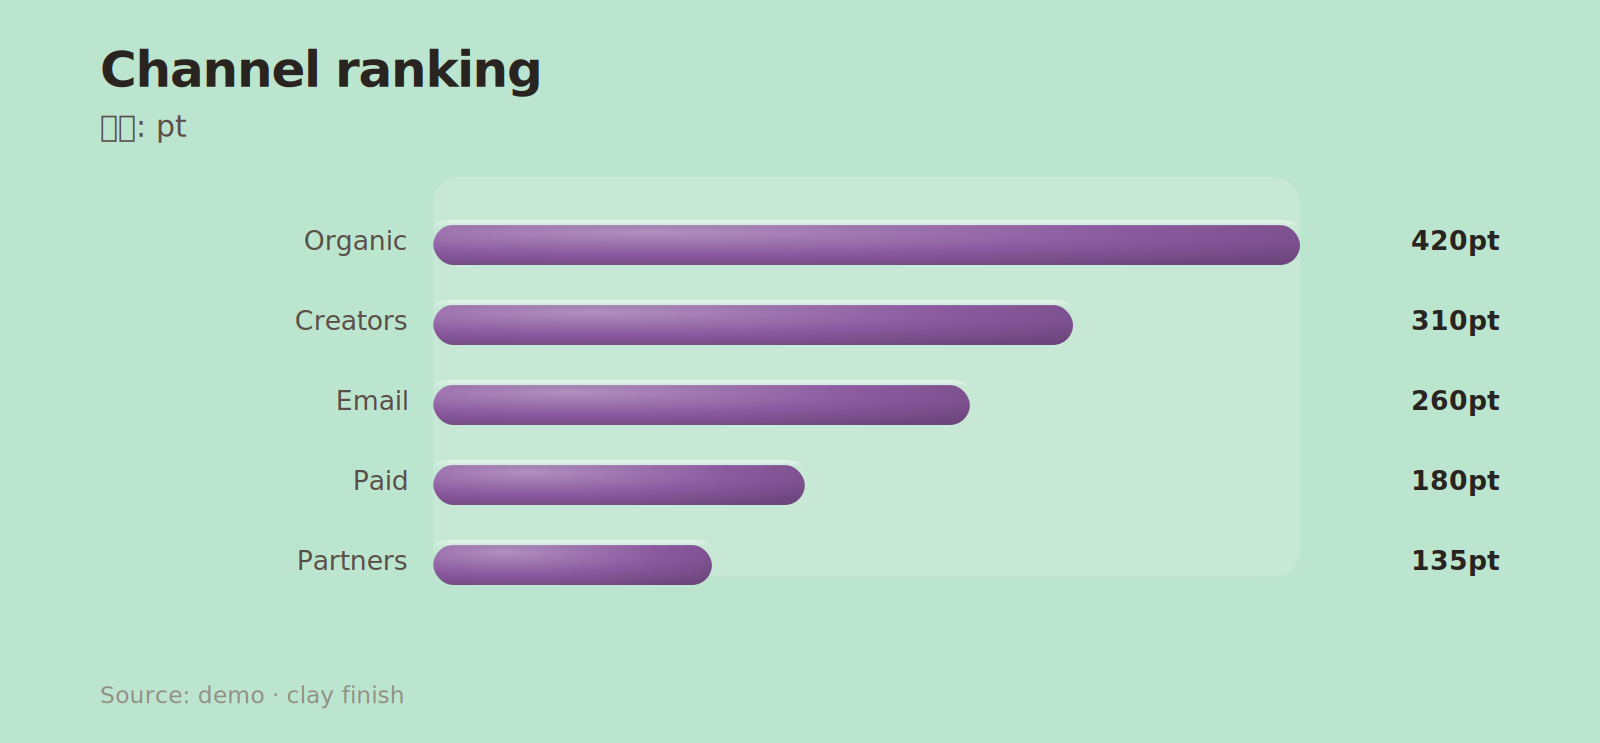
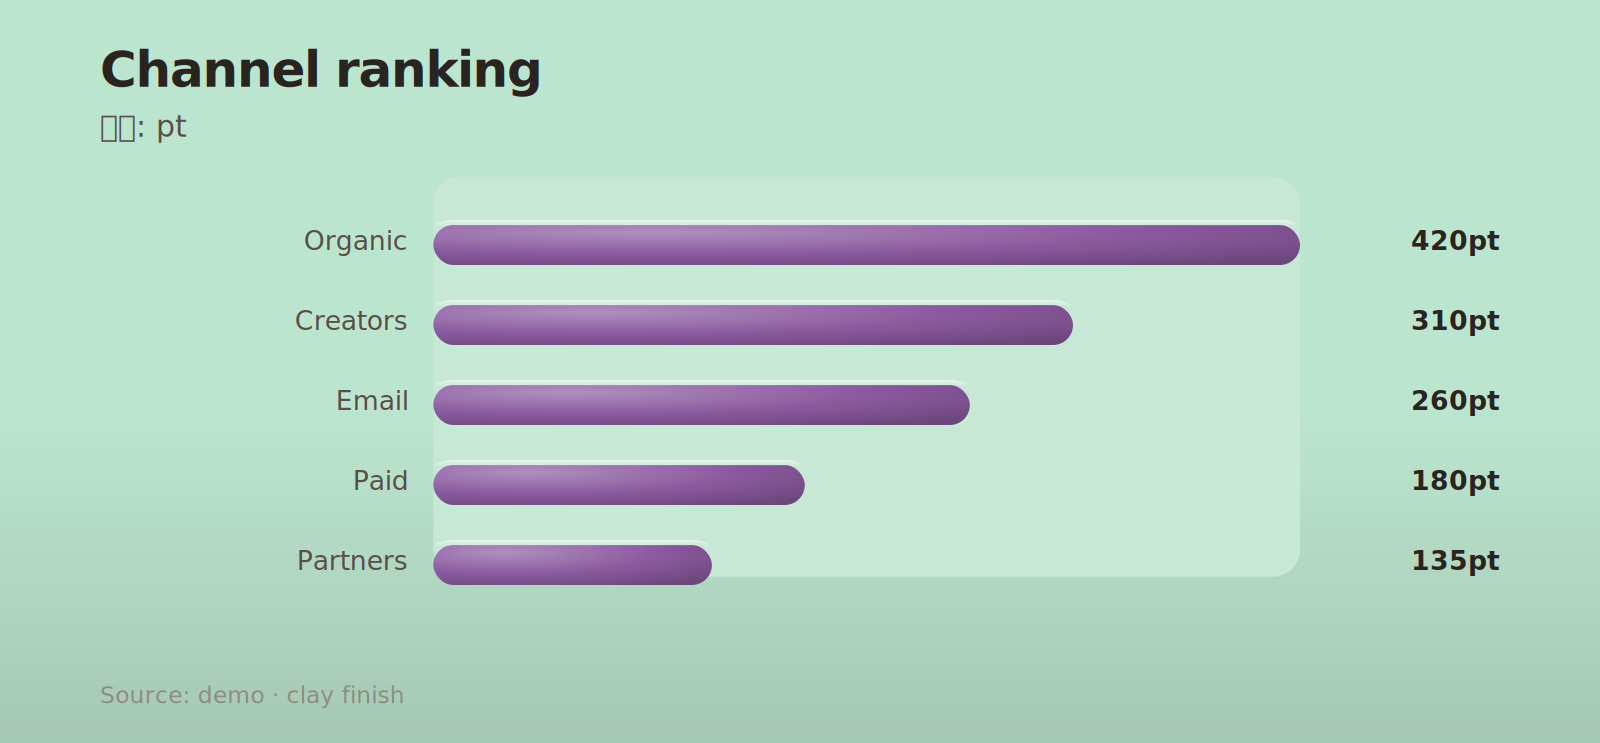
Deepen clay finish with cylindrical caps, contact shadows, glints
Upgrades the clay mode from flat-with-gradient to a sculpted volumetric
look. Vertical bars now render as cylinders with a lighter top cap
ellipse, a rim highlight on the cap, a blurred specular glint on the
upper-left body, an ambient-occlusion gradient fading into the base, and
a dedicated contact shadow ellipse on the plot floor. The donut gets a
matching floor shadow plus a top-left specular glint and an outer rim
highlight. A subtle floor gradient is layered into the background below
the chart midline to suggest a ground plane.

The drop-shadow filter on the bar body was replaced by the contact-shadow
ellipse to prevent the "floating" look; tight blur is used for bar
shadows so tick labels stay legible beneath the baseline.

https://claude.ai/code/session_01ABERqQvQCk2K72zuEPEbhP

Changed region(s): [[0.0, 0.8977, 1.0, 1.0]]

diff --git a/src/chartagent/renderers/svg_renderer.py b/src/chartagent/renderers/svg_renderer.py
@@ -57,7 +57,16 @@ def _svg_parts(width: int, height: int, chart_spec: dict[str, Any]) -> list[str]
 
 
 def _background_rect(width: int, height: int, chart_spec: dict[str, Any]) -> str:
-    return f'<rect x="0" y="0" width="{width}" height="{height}" fill="{_theme_token(chart_spec, "bg", "#ffffff")}" />'
+    bg_color = _theme_token(chart_spec, "bg", "#ffffff")
+    base = f'<rect x="0" y="0" width="{width}" height="{height}" fill="{bg_color}" />'
+    if _clay_mode_active(chart_spec):
+        floor_top = int(height * 0.55)
+        floor_layer = (
+            f'<rect x="0" y="{floor_top}" width="{width}" height="{height - floor_top}"'
+            f' fill="url(#cg-clay-floor)" pointer-events="none" />'
+        )
+        return base + floor_layer
+    return base
 
 
 def _render_bar_horizontal(chart_spec: dict[str, Any], dataset: dict[str, Any]) -> str:
@@ -241,6 +250,13 @@ def _render_donut(chart_spec: dict[str, Any], dataset: dict[str, Any]) -> str:
         f'<circle cx="{cx}" cy="{cy}" r="{radius}" stroke="{_theme_token(chart_spec, "track", "#e2e8f0")}" stroke-width="{band_width}" fill="none" />'
     )
     if is_clay:
+        shadow_rx = outer_radius * 1.05
+        shadow_ry = max(10.0, outer_radius * 0.12)
+        shadow_cy = cy + outer_radius + shadow_ry * 0.55
+        parts.append(
+            f'<ellipse cx="{cx:.2f}" cy="{shadow_cy:.2f}" rx="{shadow_rx:.2f}" ry="{shadow_ry:.2f}"'
+            f' fill="#0f0b08" fill-opacity="0.26" filter="url(#cg-clay-blur)" />'
+        )
         clay_start_angle = -90.0
         for index, record in enumerate(records):
             value = float(record.get("value") or 0.0)
@@ -249,9 +265,25 @@ def _render_donut(chart_spec: dict[str, Any], dataset: dict[str, Any]) -> str:
             end_angle = clay_start_angle + sweep
             parts.append(
                 f'<path d="{_donut_slice_path(cx=cx, cy=cy, outer_radius=outer_radius, inner_radius=inner_radius, start_angle=clay_start_angle, end_angle=end_angle)}"'
-                f' fill="{_clay_fill(chart_spec, color)}"{_clay_filter_attr(chart_spec)} />'
+                f' fill="{_clay_fill(chart_spec, color)}"{_clay_filter_attr(chart_spec, soft=True)} />'
             )
             clay_start_angle = end_angle
+        rim_start = -180.0
+        rim_end = 0.0
+        rim_rx = outer_radius
+        parts.append(
+            f'<path d="M {cx - rim_rx:.2f} {cy:.2f}'
+            f' A {rim_rx:.2f} {rim_rx:.2f} 0 0 1 {cx + rim_rx:.2f} {cy:.2f}"'
+            f' fill="none" stroke="#ffffff" stroke-width="2" stroke-opacity="0.55" stroke-linecap="round" />'
+        )
+        glint_rx = outer_radius * 0.28
+        glint_ry = outer_radius * 0.11
+        glint_cx = cx - outer_radius * 0.38
+        glint_cy = cy - outer_radius * 0.62
+        parts.append(
+            f'<ellipse cx="{glint_cx:.2f}" cy="{glint_cy:.2f}" rx="{glint_rx:.2f}" ry="{glint_ry:.2f}"'
+            f' fill="#ffffff" fill-opacity="0.55" filter="url(#cg-clay-blur)" pointer-events="none" transform="rotate(-22 {glint_cx:.2f} {glint_cy:.2f})" />'
+        )
     for index, record in enumerate(records):
         value = float(record.get("value") or 0.0)
         dash = (value / total) * circumference
@@ -968,17 +1000,58 @@ def _render_bar_core(chart_spec: dict[str, Any], dataset: dict[str, Any], annota
                 f'<polygon points="{x:.2f},{y:.2f} {x + depth:.2f},{y - depth:.2f} {x + bar_width + depth:.2f},{y - depth:.2f} {x + bar_width:.2f},{y:.2f}" fill="{_theme_token(chart_spec, "series", ["#60a5fa"])[0]}" />'
             )
         elif _clay_mode_active(chart_spec):
-            clay_radius = _motif_token(chart_spec, "bar_radius", max(12, int(bar_width / 2)))
+            base_color = str(bar_style["paint"])
+            has_hex = bool(_HEX_COLOR_RE.match(base_color))
+            clay_radius = float(_motif_token(chart_spec, "bar_radius", max(12.0, bar_width * 0.45)))
+            cap_ry = max(4.0, min(bar_width * 0.34, 11.0))
+
+            shadow_rx = bar_width * 0.56
+            shadow_ry = max(2.8, bar_width * 0.11)
+            shadow_cy = frame["plot_bottom"] + shadow_ry * 0.65 + 3
+            parts.append(
+                f'<ellipse cx="{x_center:.2f}" cy="{shadow_cy:.2f}" rx="{shadow_rx:.2f}" ry="{shadow_ry:.2f}"'
+                f' fill="#0f0b08" fill-opacity="0.22" filter="url(#cg-clay-blur-tight)" />'
+            )
+
             parts.append(
                 f'<rect x="{x:.2f}" y="{y:.2f}" width="{bar_width:.2f}" height="{bar_h:.2f}"'
-                f' fill="{_clay_fill(chart_spec, bar_style["paint"])}"'
+                f' fill="{_clay_fill(chart_spec, base_color)}"'
                 f'{_svg_optional_stroke(bar_style["stroke"], bar_style["stroke_width"])}'
-                f' rx="{clay_radius}"{_clay_filter_attr(chart_spec)} />'
+                f' rx="{clay_radius}" />'
+            )
+
+            ao_height = max(8.0, min(bar_h * 0.45, 44.0))
+            if bar_h > 12:
+                parts.append(
+                    f'<rect x="{x:.2f}" y="{(y + bar_h - ao_height):.2f}" width="{bar_width:.2f}"'
+                    f' height="{ao_height:.2f}" fill="url(#cg-clay-ao)" rx="{clay_radius}" pointer-events="none" />'
+                )
+
+            cap_color = _hex_lighten(base_color, 0.22) if has_hex else base_color
+            cap_shadow = _hex_darken(base_color, 0.18) if has_hex else base_color
+            parts.append(
+                f'<ellipse cx="{x_center:.2f}" cy="{(y + cap_ry * 0.15):.2f}" rx="{(bar_width / 2 + 0.5):.2f}"'
+                f' ry="{cap_ry:.2f}" fill="{cap_shadow}" opacity="0.55" />'
             )
             parts.append(
-                f'<rect x="{x:.2f}" y="{y:.2f}" width="{bar_width:.2f}" height="{min(bar_h, 14.0):.2f}"'
-                f' fill="url(#cg-clay-sheen)" rx="{clay_radius}" pointer-events="none" />'
+                f'<ellipse cx="{x_center:.2f}" cy="{y:.2f}" rx="{(bar_width / 2):.2f}"'
+                f' ry="{cap_ry:.2f}" fill="{cap_color}" />'
             )
+            rim_color = _hex_lighten(base_color, 0.55) if has_hex else "#ffffff"
+            parts.append(
+                f'<path d="M {x:.2f} {y:.2f} A {(bar_width / 2):.2f} {cap_ry:.2f} 0 0 1 {(x + bar_width):.2f} {y:.2f}"'
+                f' fill="none" stroke="{rim_color}" stroke-width="1.6" stroke-opacity="0.85" stroke-linecap="round" />'
+            )
+
+            glint_rx = bar_width * 0.18
+            glint_ry = max(4.0, min(bar_h * 0.08, 9.0))
+            glint_cx = x + bar_width * 0.32
+            glint_cy = y + cap_ry + min(bar_h * 0.18, 22.0)
+            if bar_h > cap_ry * 2 + 6:
+                parts.append(
+                    f'<ellipse cx="{glint_cx:.2f}" cy="{glint_cy:.2f}" rx="{glint_rx:.2f}" ry="{glint_ry:.2f}"'
+                    f' fill="#ffffff" fill-opacity="0.55" filter="url(#cg-clay-blur-tight)" pointer-events="none" />'
+                )
         else:
             parts.append(
                 f'<rect x="{x:.2f}" y="{y:.2f}" width="{bar_width:.2f}" height="{bar_h:.2f}" fill="{bar_style["paint"]}"'
@@ -1773,13 +1846,46 @@ def _clay_defs_block(chart_spec: dict[str, Any]) -> str:
         '<feMerge><feMergeNode /><feMergeNode in="SourceGraphic" /></feMerge>'
         '</filter>'
     )
+    blur_filter = (
+        '<filter id="cg-clay-blur" x="-50%" y="-50%" width="200%" height="200%">'
+        '<feGaussianBlur stdDeviation="4" />'
+        '</filter>'
+    )
+    tight_blur_filter = (
+        '<filter id="cg-clay-blur-tight" x="-50%" y="-50%" width="200%" height="200%">'
+        '<feGaussianBlur stdDeviation="2" />'
+        '</filter>'
+    )
     highlight_sheen = (
         '<linearGradient id="cg-clay-sheen" x1="0%" y1="0%" x2="0%" y2="100%">'
         '<stop offset="0%" stop-color="#ffffff" stop-opacity="0.55" />'
         '<stop offset="45%" stop-color="#ffffff" stop-opacity="0.0" />'
         '</linearGradient>'
     )
-    return "<defs>" + drop_shadow + soft_shadow + highlight_sheen + "".join(gradients) + "</defs>"
+    ao_gradient = (
+        '<linearGradient id="cg-clay-ao" x1="0%" y1="0%" x2="0%" y2="100%">'
+        '<stop offset="0%" stop-color="#1a1512" stop-opacity="0" />'
+        '<stop offset="100%" stop-color="#1a1512" stop-opacity="0.32" />'
+        '</linearGradient>'
+    )
+    floor_gradient = (
+        '<linearGradient id="cg-clay-floor" x1="0%" y1="0%" x2="0%" y2="100%">'
+        '<stop offset="0%" stop-color="#1a1512" stop-opacity="0" />'
+        '<stop offset="100%" stop-color="#1a1512" stop-opacity="0.14" />'
+        '</linearGradient>'
+    )
+    return (
+        "<defs>"
+        + drop_shadow
+        + soft_shadow
+        + blur_filter
+        + tight_blur_filter
+        + highlight_sheen
+        + ao_gradient
+        + floor_gradient
+        + "".join(gradients)
+        + "</defs>"
+    )
 
 
 def _clay_fill(chart_spec: dict[str, Any], color: Any) -> str:
